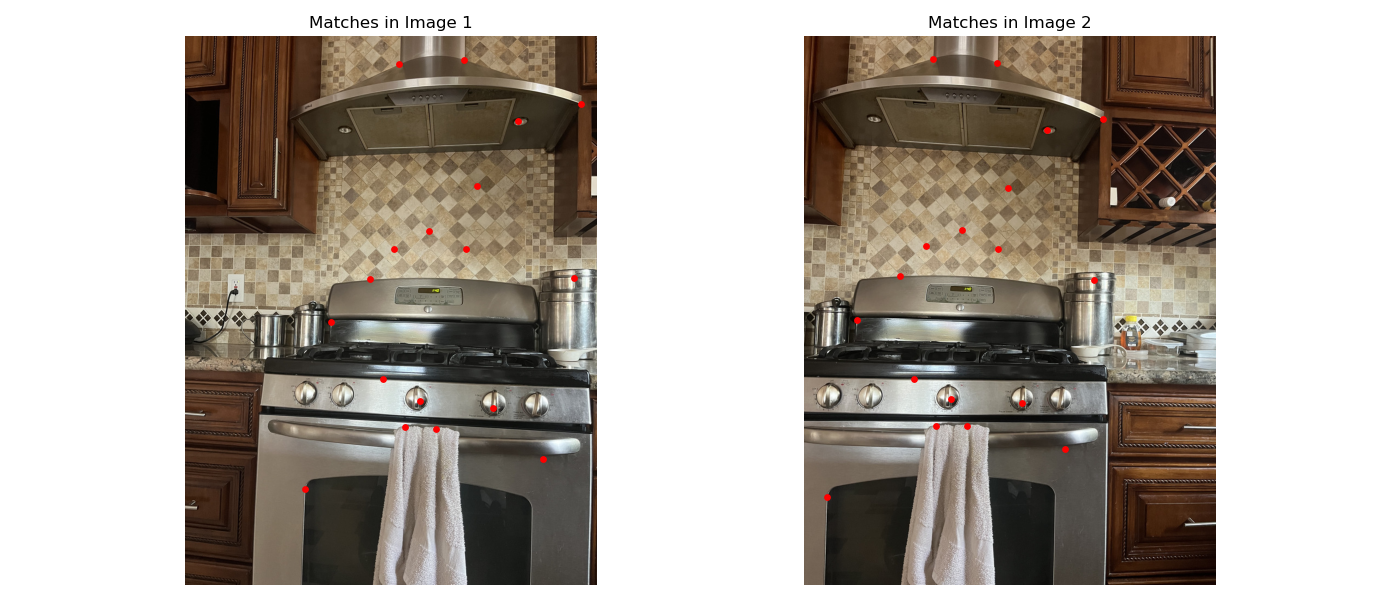
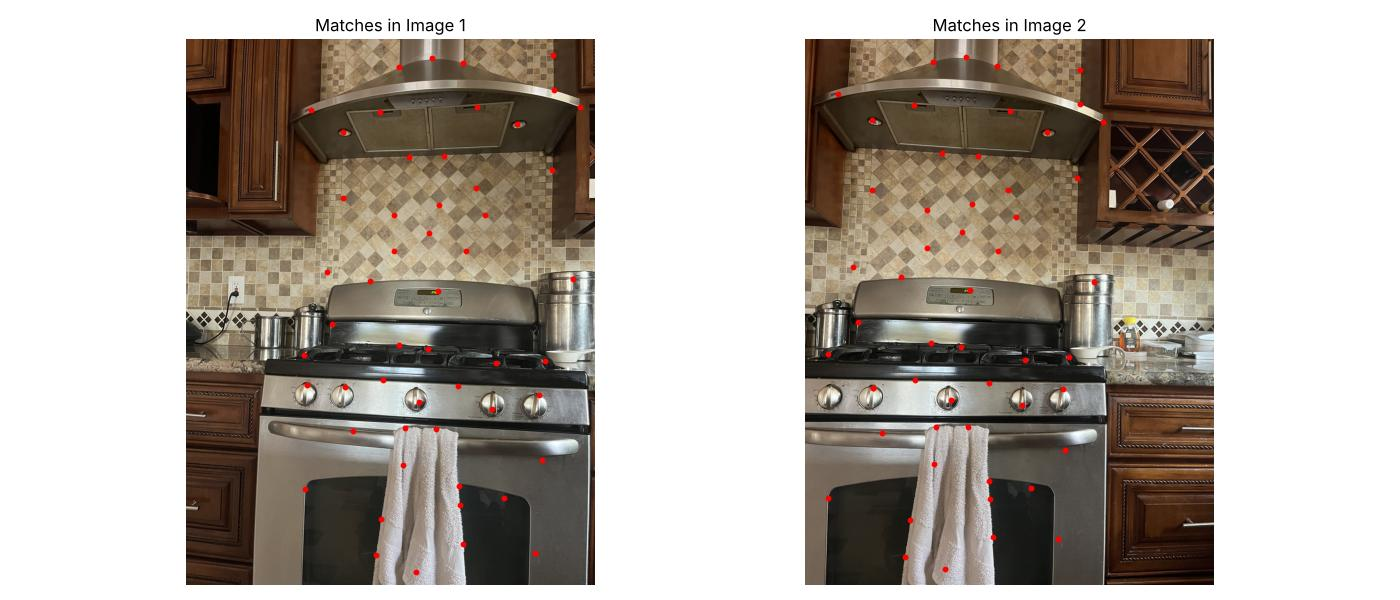
finish proj 4

diff --git a/4/index.html b/4/index.html
@@ -1,7 +1,7 @@
 <!DOCTYPE html>
 <html>
 <head>
-    <title>Project 4A</title>
+    <title>Project 3A</title>
     <link href="https://fonts.googleapis.com/css2?family=Poppins:wght@400;600&display=swap" rel="stylesheet">
     <style>
         body {
@@ -94,7 +94,7 @@
 
     <div class="content section-spacing">
         <div class="text-block">
-            <h1>Project 4A</h1>
+            <h1>Project 3A</h1>
             <p class="description">
                 In the first part of the project, we create mosaics from images by manually selecting correspondences, recovering homographies, warping images accordingly, and blending them together.
             </p>
@@ -328,6 +328,7 @@
             <p class="description">
                 In this section, we combined warped images to create mosaics. We selected one image as the base and added the other images one by one. For each new image, we computed its homography relative to the base image and used it to warp the image into the mosaic. The mosaic canvas was expanded as needed to accommodate each new warped image. To blend the images and reduce edge artifacts, we used an alpha channel to perform weighted averaging at every pixel. The alpha was set to 1 at the center of each warped image and decreased linearly to 0 at the edges using distance_transform_edt. By continuously applying this process, we gradually built up the complete mosaic.
                 Below, we show the mosaic process applied to three sets of images. Despite using alpha blending, some brightness differences and minor misalignments are visible, though the overall mosaic quality remains good.
+            </p>
         </div>
 
         <div class="image-row">
@@ -354,3 +355,201 @@
         </div>
 
     </div>
+
+    <div class="content section-spacing">
+        <div class="text-block">
+            <h1>Project 3B</h1>
+            <p class="description">
+                In the second part of the project, we automatically stitch images using the techniques in the MOPS paper: detecting Harris corners, extracting feature descriptors, finding correspondences between images using the Lowe ratio test, and eliminating outlier matches using RANSAC.
+            </p>
+        </div>
+    </div>
+
+    <div class="content section-spacing">
+        <div class="text-block">
+            <h1>Harris Corner Detection</h1>
+            <p class="description">
+                In this section, we first determined an initial set of corners using the Harris corner detection algorithm (provided), at a single scale. We kept the Harris response peaks that are at least 20 pixels apart and at least 20 pixels from the image border, which gave a set of corner points and their strengths. We then applied adaptive non-maximal suppression (ANMS). For each corner, we computed the suppression radius, the distance to the nearest corner that is significantly stronger (its strength times c<sub>robust</sub> = 0.9 still exceeds the corner's own strength). For the strongest corner, we set suppression radius to infinity. We select the n corners with the largest suppression radii, where 
+                n is the desired number of corners. The resulting corners are both strong and evenly distributed across the image. Below, we visualize the results of Harris corner detection with and without ANMS (n = 100) on a sample image.
+             </p>
+        </div>
+
+        <div class="image-row">
+            <figure>
+                <img src="display1.jpg" alt="calculations" class = "recover1">
+            </figure>
+        </div>
+
+    </div>
+
+    <div class="content section-spacing">
+        <div class="text-block">
+            <h1>Feature Descriptor Extraction</h1>
+            <p class="description">
+                In this section, we extracted descriptors for each feature by first retrieving the 40×40 window around each point of interest. We then downsampled each window to an axis-aligned 8×8 patch by averaging each 5×5 block, which blurs the patch and avoids aliasing. Finally, we bias/gain-normalized each patch to zero mean and unit standard deviation and flattened it into a 64-dimensional descriptor. Below, we visualize the descriptors for three corners in the sample image:
+             </p>
+        </div>
+
+        <div class="image-row">
+            <figure>
+                <img src="display2.jpg" alt="calculations" class = "recover1">
+            </figure>
+        </div>
+
+    </div>
+
+    <div class="content section-spacing">
+        <div class="text-block">
+            <h1>Feature Matching</h1>
+            <p class="description">
+                In this section, given two images, we extracted features and corresponding descriptors for both using the methods detailed above.
+                For every feature in one image, we determined its two nearest descriptor matches in the other image (by squared error) and applied the Lowe ratio test, which accepts a match only if the closest match is significantly better than the second-closest. Following Figure 6b of the MOPS paper, where correct matches have a low 1-NN/2-NN squared-error ratio and incorrect matches have a ratio near 1, we accepted matches with a ratio below 0.4.
+                We then returned all matches between the two images. Below we visualize the matches found between two sample images:</p>
+        </div>
+        <div class="image-row">
+            <figure>
+                <img src="display3.jpg" alt="calculations" class = "recover1">
+            </figure>
+        </div>
+
+    </div>
+
+    <div class="content section-spacing">
+        <div class="text-block">
+            <h1>RANSAC for Robust Homography</h1>
+            <p class="description">
+                In this section, given the matches between two images, we recover the homography that maps one set of points to the other, using RANSAC to remove outlier correspondences. The RANSAC loop works by randomly sampling four matched points to compute a candidate homography, counting how many matches agree with this estimate (the inliers, which the homography maps to within 3 pixels of their match), keeping the model with the largest inlier set over 1000 iterations, and then recomputing the homography using all of those inliers with least squares. We then use this homography to warp and blend the images, producing mosaics by adapting our code from Part A: each new image is matched automatically against the mosaic built so far (using 500 ANMS corners) instead of clicking correspondences by hand.
+                Below, we show both manually stitched and automatically stitched mosaics generated using the techniques from Parts A and B:
+            </p>
+        </div>
+        <div class="image-row">
+            <figure>
+                <img src="kitchen5.jpg" alt="kitchen" class = "kitchen1">
+                <figcaption>
+                    <div class="caption-line">Kitchen 1</div>
+                </figcaption>
+            </figure>
+            <figure>
+                <img src="kitchen3.jpg" alt="kitchen" class = "kitchen1">
+                <figcaption>
+                    <div class="caption-line">Kitchen 2</div>
+                </figcaption>
+            </figure>
+            <figure>
+                <img src="kitchen1.jpg" alt="kitchen" class = "kitchen1">
+                <figcaption>
+                    <div class="caption-line">Kitchen 3</div>
+                </figcaption>
+            </figure>
+            <figure>
+                <img src="kitchen2.jpg" alt="kitchen" class = "kitchen1">
+                <figcaption>
+                    <div class="caption-line">Kitchen 4</div>
+                </figcaption>
+            </figure>
+            <figure>
+                <img src="kitchen4.jpg" alt="kitchen" class = "kitchen1">
+                <figcaption>
+                    <div class="caption-line">Kitchen 5</div>
+                </figcaption>
+            </figure>
+        </div>
+        <div class="image-row">
+            <figure>
+                <img src="kitchen_auto.jpg" alt="kitchen" class = "kitchen1">
+                <figcaption>
+                    <div class="caption-line">Automatically Stitched Kitchen Mosaic</div>
+                </figcaption>
+            </figure>
+            <figure>
+                <img src="kitchen_manual.jpg" alt="kitchen" class = "kitchen1">
+                <figcaption>
+                    <div class="caption-line">Manually Stitched Kitchen Mosaic</div>
+                </figcaption>
+            </figure>
+        </div>
+        <div class="image-row">
+            <figure>
+                <img src="etch4.jpg" alt="kitchen" class = "etch1">
+                <figcaption>
+                    <div class="caption-line">Etcheverry 1</div>
+                </figcaption>
+            </figure>
+            <figure>
+                <img src="etch3.jpg" alt="kitchen" class = "etch1">
+                <figcaption>
+                    <div class="caption-line">Etcheverry 2</div>
+                </figcaption>
+            </figure>
+            <figure>
+                <img src="etch2.jpg" alt="kitchen" class = "etch1">
+                <figcaption>
+                    <div class="caption-line">Etcheverry 3</div>
+                </figcaption>
+            </figure>
+            <figure>
+                <img src="etch1.jpg" alt="kitchen" class = "etch1">
+                <figcaption>
+                    <div class="caption-line">Etcheverry 4</div>
+                </figcaption>
+            </figure>
+        </div>
+        <div class="image-row">
+            <figure>
+                <img src="etch_auto.jpg" alt="kitchen" class = "etch1">
+                <figcaption>
+                    <div class="caption-line">Automatically Stitched Etcheverry Mosaic</div>
+                </figcaption>
+            </figure>
+            <figure>
+                <img src="etch_manual.jpg" alt="kitchen" class = "etch1">
+                <figcaption>
+                    <div class="caption-line">Manually Stitched Etcheverry Mosaic</div>
+                </figcaption>
+            </figure>
+        </div>
+        <div class="image-row">
+            <figure>
+                <img src="gold1.jpg" alt="kitchen" class = "etch1">
+                <figcaption>
+                    <div class="caption-line">Goldman 1</div>
+                </figcaption>
+            </figure>
+            <figure>
+                <img src="gold2.jpg" alt="kitchen" class = "etch1">
+                <figcaption>
+                    <div class="caption-line">Goldman 2</div>
+                </figcaption>
+            </figure>
+            <figure>
+                <img src="gold3.jpg" alt="kitchen" class = "etch1">
+                <figcaption>
+                    <div class="caption-line">Goldman 3</div>
+                </figcaption>
+            </figure>
+            <figure>
+                <img src="gold4.jpg" alt="kitchen" class = "etch1">
+                <figcaption>
+                    <div class="caption-line">Goldman 4</div>
+                </figcaption>
+            </figure>
+        </div>
+        <div class="image-row">
+            <figure>
+                <img src="gold_auto.jpg" alt="kitchen" class = "etch1">
+                <figcaption>
+                    <div class="caption-line">Automatically Stitched Goldman Mosaic</div>
+                </figcaption>
+            </figure>
+            <figure>
+                <img src="gold.jpg" alt="kitchen" class = "etch1">
+                <figcaption>
+                    <div class="caption-line">Manually Stitched Goldman Mosaic</div>
+                </figcaption>
+            </figure>
+        </div>
+
+    </div>
+
+</body>
+</html>
